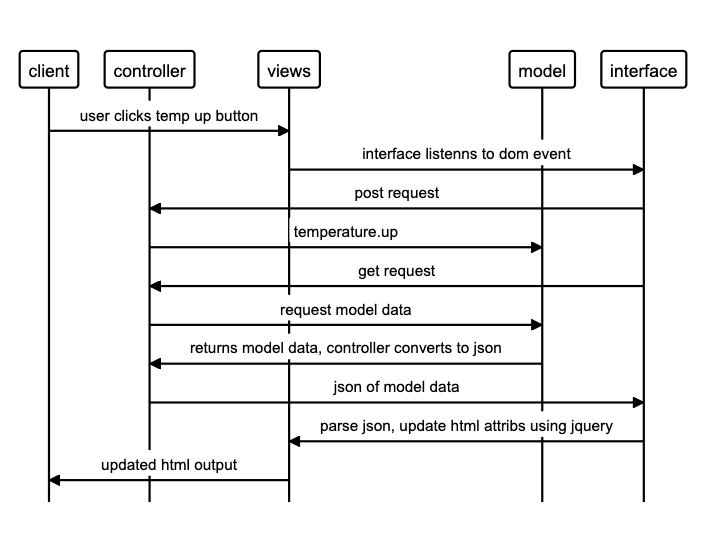
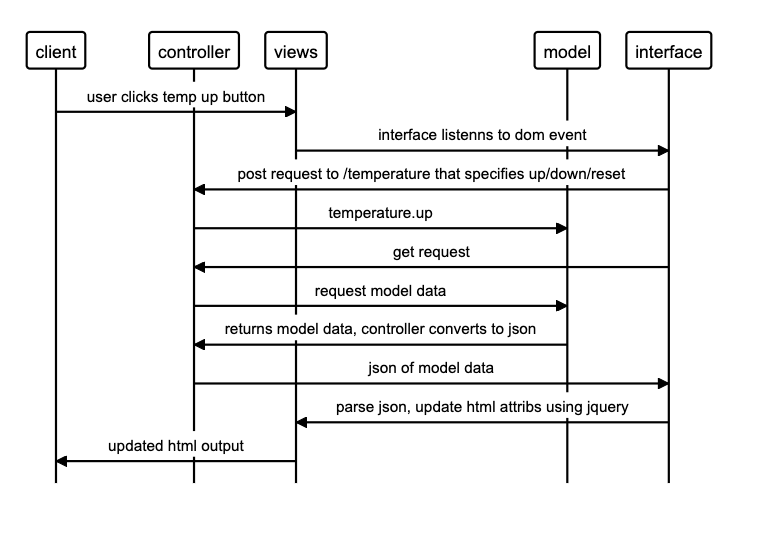
Added more description to post

Changed region(s): [[0.0, 0.0295, 0.9915, 0.9134]]

diff --git a/README.md b/README.md
@@ -14,7 +14,7 @@ views->client:"html output"]
 * Model 2 (clicking temperature up)
 [client->views: "user clicks temp up button"
 views->interface:"interface listenns to dom event"
-interface->controller:"post request"
+interface->controller:"post request to /temperature that specifies up/down/reset"
 controller->model:"temperature.up"
 interface->controller:"get request"
 controller->model:"request model data"
